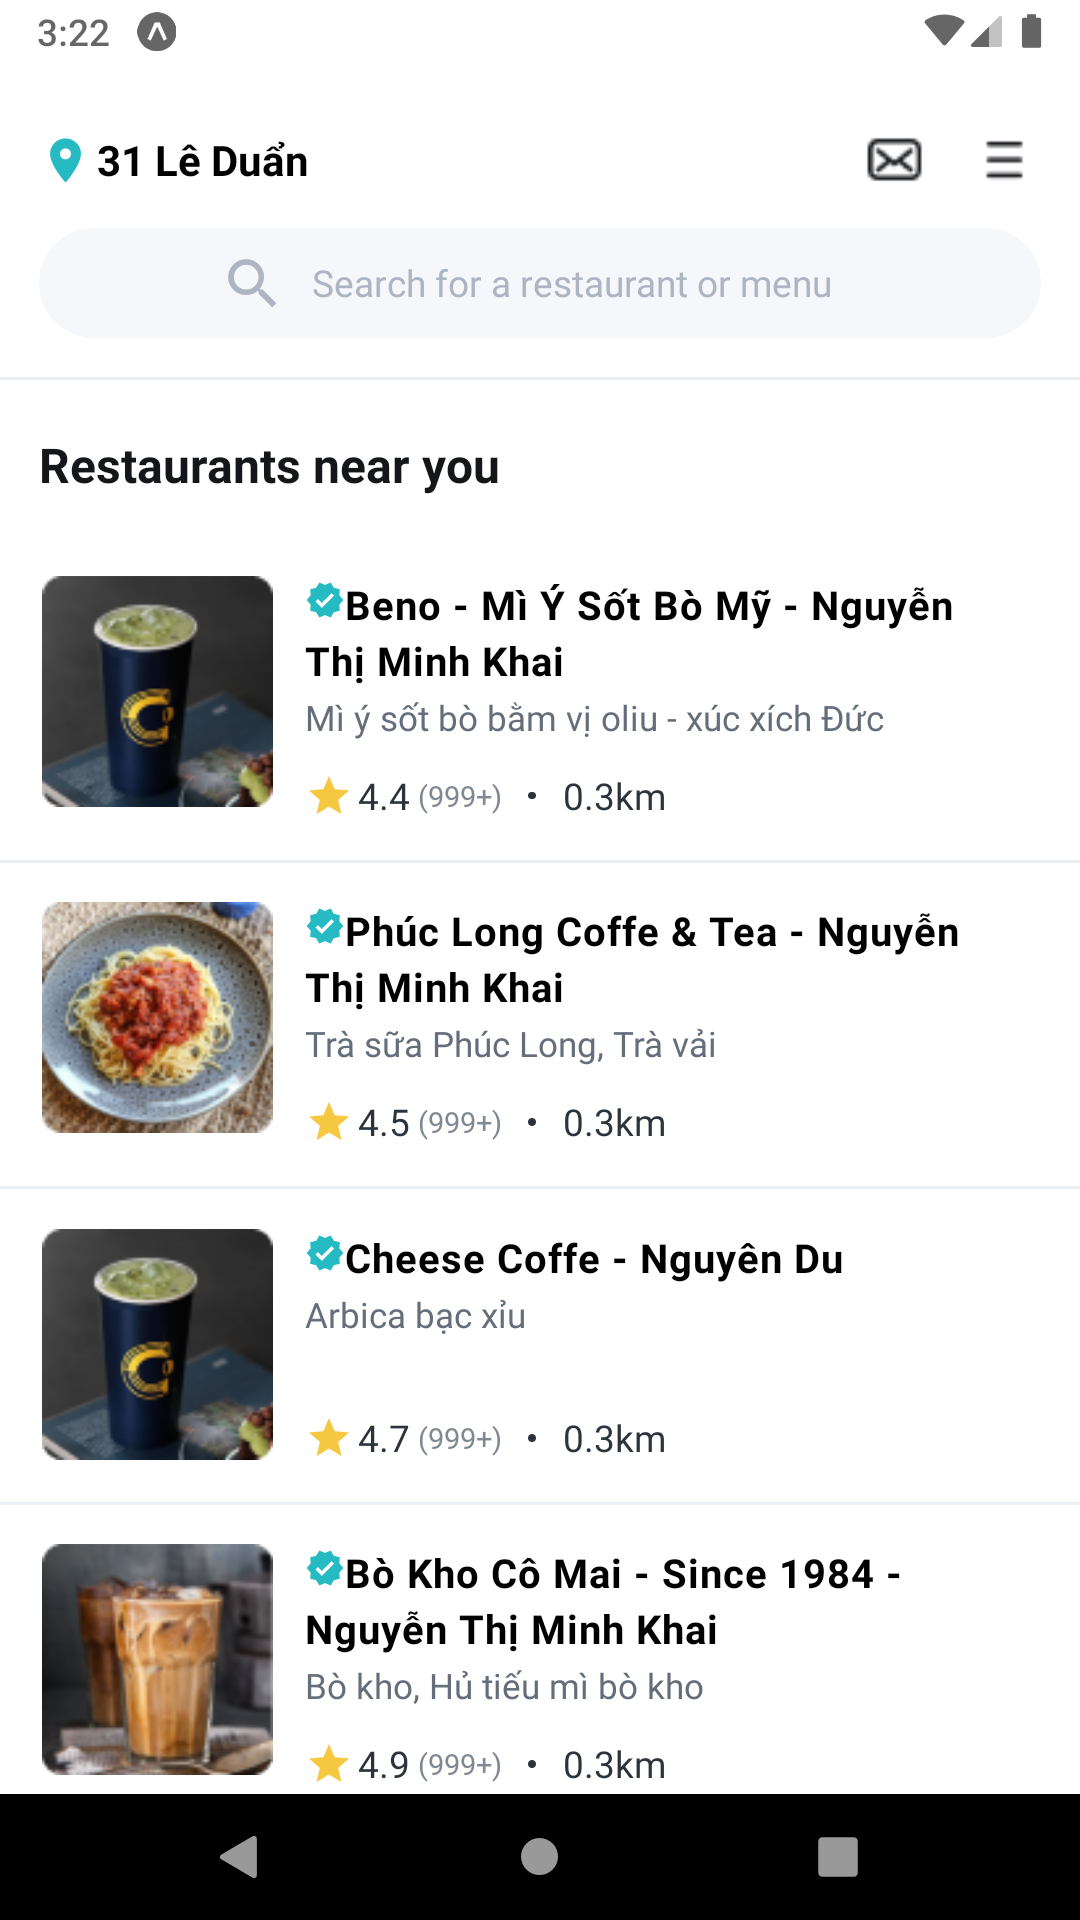
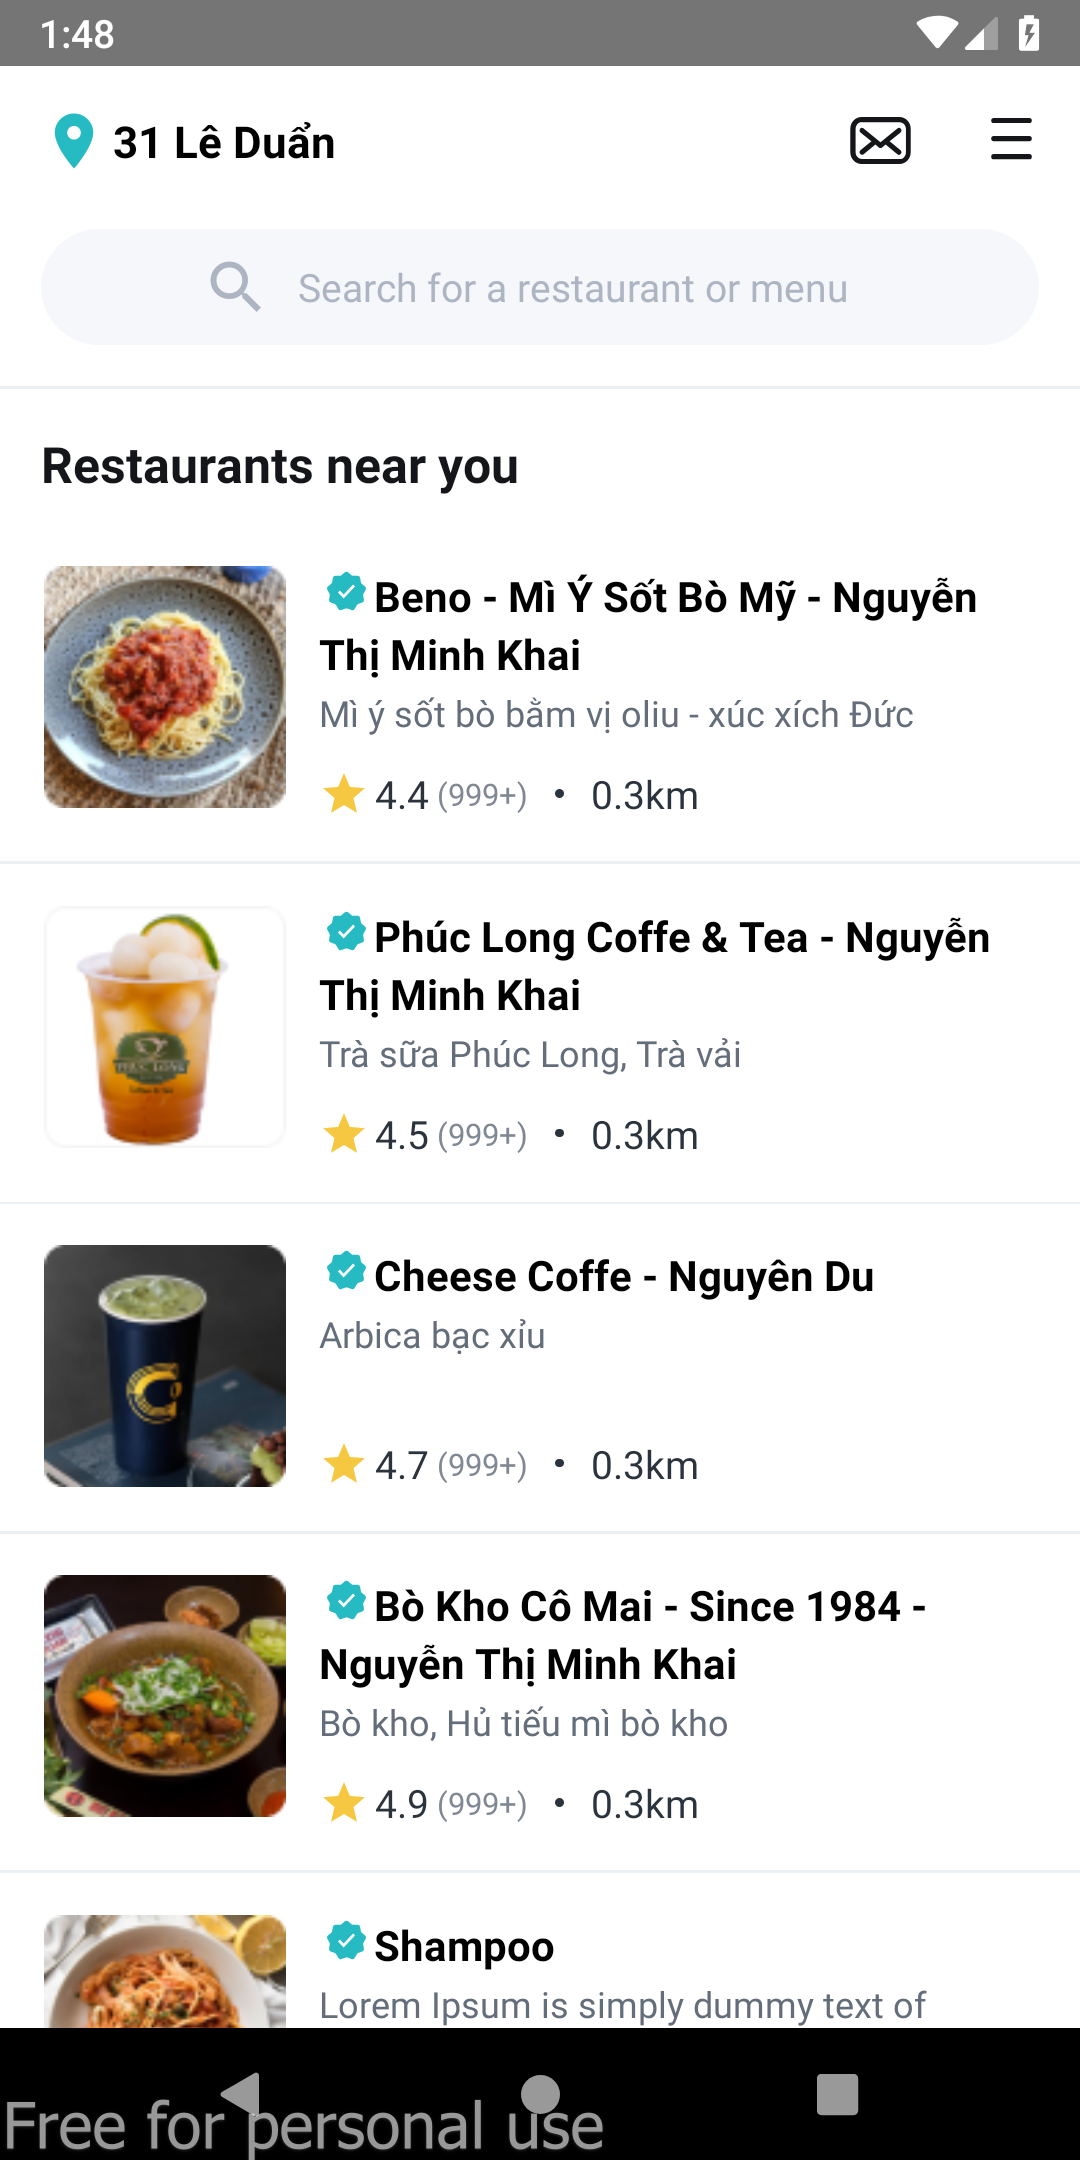
update image demo

diff --git a/README.md b/README.md
@@ -1,0 +1,15 @@
+![][1]
+
+## Demo Baemin With CLI
+
+###### 1. npm install or yarn install
+
+###### 2. Run metro with CLI: npx react-native start or npm start or yarn start
+
+###### 3. Open new terminal, run: npx react-native android or npm android or yarn android
+
+**Make sure you has run emulators (android studio or genymotion)**
+
+[<img src="src/assets/demo/01.png" width="250"/>](src/assets/demo/01.png)
+[<img src="src/assets/demo/02.png" width="250"/>](src/assets/demo/02.png)
+[<img src="src/assets/demo/03.png" width="250"/>](src/assets/demo/03.png)
